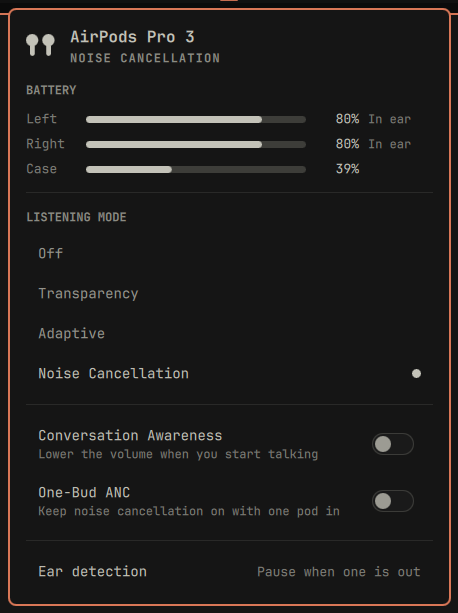
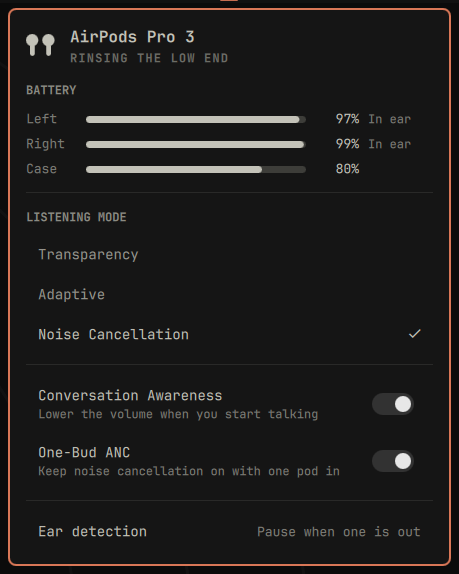
docs: reshoot every panel screenshot against the build
The old set predates AirPods Pro 3 support and was wrong three ways at
once: every full-panel shot drew an Off row the device does not have,
marked the selected mode with a dot rather than a check, and put the mode
name where the rotating phrase now goes. Reshot from the running panel
with both pods in and the case reading 80%. Transparency takes the sixth
cell from the low-battery frame, which cannot be produced honestly at 97
and 99 percent.

diff --git a/README.md b/README.md
@@ -46,8 +46,8 @@
 | | |
 |:---:|:---:|
 | <img src="docs/panel-noise-cancellation.png" alt="Noise Cancellation"><br>Noise Cancellation, both pods in | <img src="docs/panel-adaptive.png" alt="Adaptive"><br>Adaptive, with the noise level and Conversation Awareness on |
-| <img src="docs/panel-one-bud.png" alt="One pod out"><br>One pod out of the case, lid open | <img src="docs/panel-in-case.png" alt="Both pods in the case"><br>Both pods charging, lid closed |
-| <img src="docs/panel-low-battery.png" alt="Low battery"><br>Low battery | <img src="docs/panel-daemon-down.png" alt="Daemon not running"><br>librepods not running |
+| <img src="docs/panel-transparency.png" alt="Transparency"><br>Transparency | <img src="docs/panel-one-bud.png" alt="One pod in the case"><br>One pod in the case, lid open, One-Bud ANC on |
+| <img src="docs/panel-in-case.png" alt="Both pods in the case"><br>Both pods charging, lid closed | <img src="docs/panel-daemon-down.png" alt="Daemon not running"><br>librepods not running |
 
 <p align="center">
   <img src="docs/panel-live.png" alt="The panel against a real AirPods Pro 3" width="360"><br>
